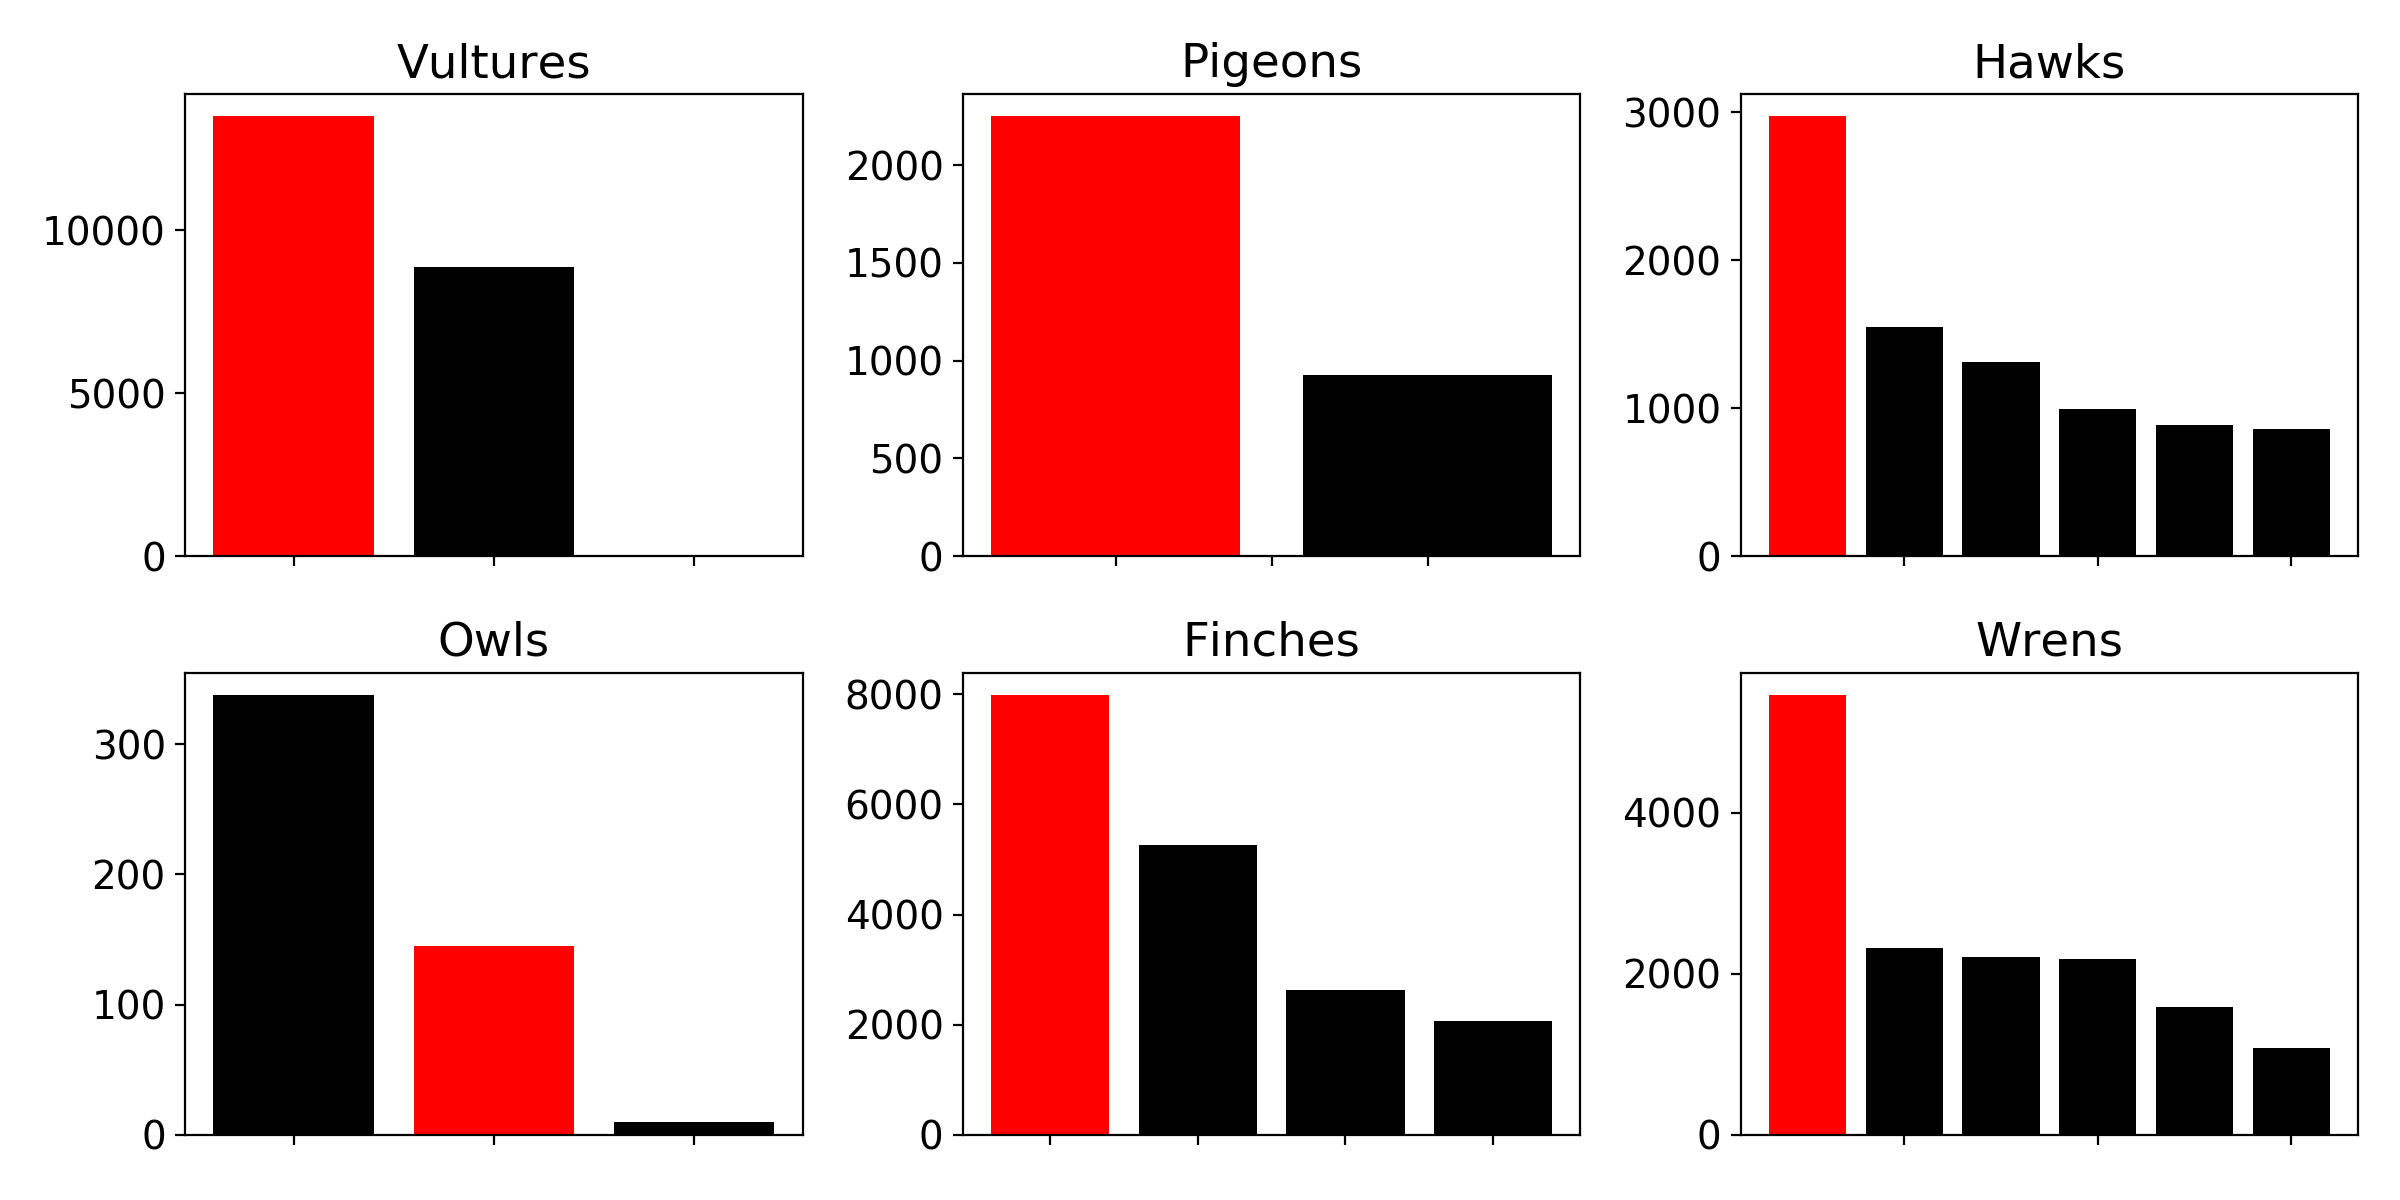
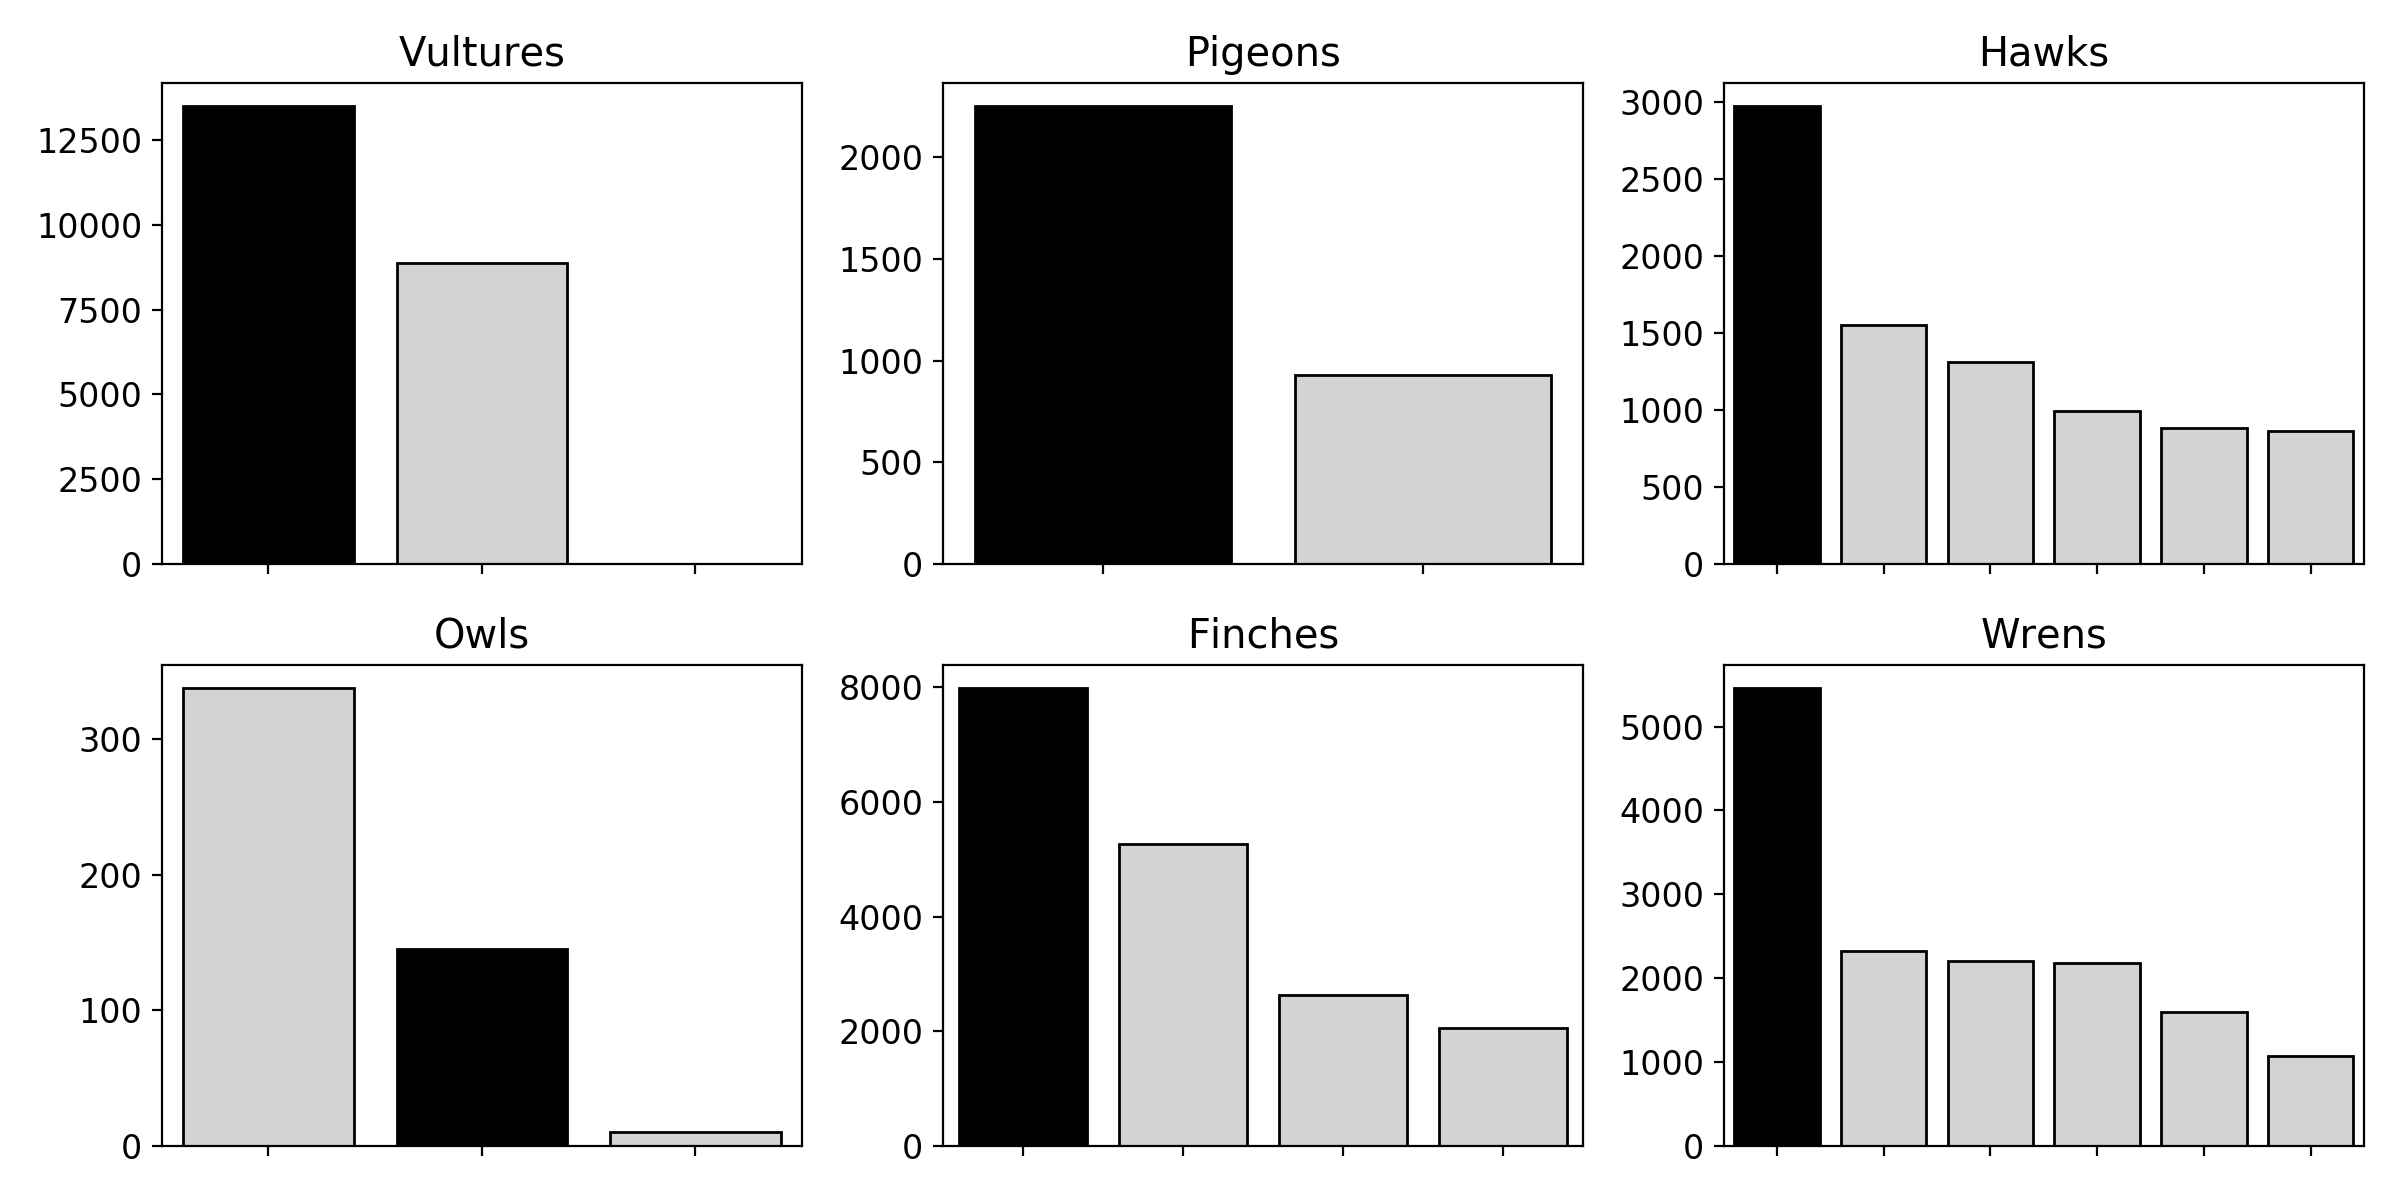
updated figures to proposed final versions

diff --git a/cogsci2020/code/cogsci_2020.py b/cogsci2020/code/cogsci_2020.py
@@ -85,25 +85,25 @@ for birdcount in bird_counts.keys():
 
 
 
-plt.figure(dpi=100, facecolor='w', edgecolor='k')
-
-# plt.subplot(1,2,1)
+plt.figure(figsize=(9, 4), dpi=100, facecolor='w', edgecolor='k')
+plt.rcParams.update({'font.size': 12})
+plt.subplot(1,2,1)
 
 pos = [1,2,3]
 plotnames = ('Zapotec','Missing','All OAX')
 # plt.figure()
-plt.violinplot([data_zapotec,missing_data,data_all],pos) 
-# plt.title('Frequency densities of OAX')
+plt.violinplot([data_zapotec,missing_data,data_all],pos,showmeans=True) 
+plt.title('Frequency densities of Zapotec')
 plt.xticks(pos,plotnames)
 plt.ylabel('Log frequency')
 
-plt.tight_layout()
-plt.show()
+# plt.tight_layout()
+# plt.show()
 
 
 
 
-plt.figure(dpi=100, facecolor='w', edgecolor='k')
+# plt.figure(dpi=100, facecolor='w', edgecolor='k')
 
 
 bigbirddata_data = pd.read_csv('./data/BirdFuncDat.txt',sep='\t',encoding = "ISO-8859-1")
@@ -134,12 +134,12 @@ for birdmass in oax_masses.keys():
 	if birdmass not in zapotec_masses.keys():
 		missing_data.append(np.log(oax_masses[birdmass]))
 
-# plt.subplot(1,2,2)
+plt.subplot(1,2,2)
 pos = [1,2,3]
 plotnames = ('Zapotec','Missing','All OAX')
 # plt.figure()
-plt.violinplot([data_zapotec,missing_data,data_all],pos) 
-# plt.title('Mass densities of Zapotec')
+plt.violinplot([data_zapotec,missing_data,data_all],pos,showmeans=True) 
+plt.title('Mass densities of Zapotec')
 plt.xticks(pos,plotnames)
 plt.ylabel('Log mass')
 
@@ -240,7 +240,7 @@ np.mean(np.log(monomials))
 
 # In[195]:
 plt.figure(figsize=(9, 4), dpi=100, facecolor='w', edgecolor='k')
-
+plt.rcParams.update({'font.size': 12})
 plt.subplot(1,2,1)
 
 # violin plot 
@@ -250,7 +250,7 @@ data_monomials = [np.log(i) for i in monomials]
 pos = [1,2]
 plotnames = ('Compounds','Monomials')
 # plt.figure()
-plt.violinplot([data_compounds,data_monomials],pos)
+plt.violinplot([data_compounds,data_monomials],pos,showmeans=True)
 plt.title('Frequency densities of name forms')
 plt.xticks(pos,plotnames)
 plt.ylabel('Log frequency')
@@ -296,7 +296,7 @@ plt.subplot(1,2,2)
 pos = [1,2]
 plotnames = ('Compounds','Monomials')
 # plt.figure()
-plt.violinplot([data_compounds,data_monomials],pos)
+plt.violinplot([data_compounds,data_monomials],pos,showmeans=True)
 plt.title('Mass densities of name forms')
 plt.xticks(pos,plotnames)
 plt.ylabel('Log Mass')
@@ -345,7 +345,9 @@ bar_labels = ('Turkey','Black','King')
 subplot_title = 'Vultures'
 heights = get_barheights_freq(bar_species,bird_list,df)
 pos = [1,2,3]
-plt.bar(pos,heights,color=['red','black','black'])
+# plt.bar(pos,heights,color=['red','black','black'])
+clrs = ['black','lightgrey','lightgrey']
+sns.barplot(pos,heights,palette=clrs,edgecolor="Black")
 plt.title(subplot_title)
 # plt.xticks(pos,bar_labels)
 plt.tick_params(labelbottom=False)
@@ -357,7 +359,9 @@ bar_labels = ('Rock','Band-tailed')
 subplot_title = 'Pigeons'
 heights = get_barheights_freq(bar_species,bird_list,df)
 pos = [1,2]
-plt.bar(pos,heights,color=['red','black'])
+# plt.bar(pos,heights,color=['red','black'])
+clrs = ['black','lightgrey']
+sns.barplot(pos,heights,palette=clrs,edgecolor="Black")
 plt.title(subplot_title)
 # plt.xticks(pos,bar_labels)
 plt.tick_params(labelbottom=False)
@@ -369,8 +373,10 @@ bar_labels = ('Red-tailed','Coopers','Short-tailed','Zone-tailed','Peregrine Fal
 subplot_title = 'Hawks'
 heights = get_barheights_freq(bar_species,bird_list,df)
 pos = [1,2,3,4,5,6]
-plt.bar(pos,heights,color=['red','black','black','black','black','black'])
+# plt.bar(pos,heights,color=['red','black','black','black','black','black'])
 plt.title(subplot_title)
+clrs = ['black','lightgrey','lightgrey','lightgrey','lightgrey','lightgrey']
+sns.barplot(pos,heights,palette=clrs,edgecolor="Black")
 # plt.xticks(pos,bar_labels)
 plt.tick_params(labelbottom=False)
 
@@ -381,7 +387,9 @@ bar_labels = ('Mottled','Great Horned','Stygian')
 subplot_title = 'Owls'
 heights = get_barheights_freq(bar_species,bird_list,df)
 pos = [1,2,3]
-plt.bar(pos,heights,color=['black','red','black'])
+# plt.bar(pos,heights,color=['black','red','black'])
+clrs = ['lightgrey','black','lightgrey']
+sns.barplot(pos,heights,palette=clrs,edgecolor="Black")
 plt.title(subplot_title)
 # plt.xticks(pos,bar_labels)
 plt.tick_params(labelbottom=False)
@@ -393,7 +401,9 @@ bar_labels = ('House','Black-vented','Black-headed','Summer Tanager')
 subplot_title = 'Finches'
 heights = get_barheights_freq(bar_species,bird_list,df)
 pos = [1,2,3,4]
-plt.bar(pos,heights,color=['red','black','black','black'])
+# plt.bar(pos,heights,color=['red','black','black','black'])
+clrs = ['black','lightgrey','lightgrey','lightgrey']
+sns.barplot(pos,heights,palette=clrs,edgecolor="Black")
 plt.title(subplot_title)
 # plt.xticks(pos,bar_labels)
 plt.tick_params(labelbottom=False)
@@ -406,7 +416,9 @@ bar_labels = ('Bewicks','Canyon','Crescent-chested','Brown-throated','Gray-breas
 subplot_title = 'Wrens'
 heights = get_barheights_freq(bar_species,bird_list,df)
 pos = [1,2,3,4,5,6]
-plt.bar(pos,heights,color=['red','black','black','black','black','black'])
+# plt.bar(pos,heights,color=['red','black','black','black','black','black'])
+clrs = ['black','lightgrey','lightgrey','lightgrey','lightgrey','lightgrey']
+sns.barplot(pos,heights,palette=clrs,edgecolor="Black")
 plt.title(subplot_title)
 # plt.xticks(pos,bar_labels)
 

diff --git a/cogsci2020/paper/cogsci2020_draft2.tex b/cogsci2020/paper/cogsci2020_draft2.tex
@@ -156,14 +156,14 @@ Figure~\ref{fig-birdfreqmassviolin} shows distributions of frequency and size fo
 
 % One relevant finding is that categories tend to be relatively broad in low-frequency regions of stimulus space, but relatively narrow in regions including frequently encountered stimuli (Parducci, 1983). We might therefore predict that bird species encountered frequently are more likely to be assigned to their own distinctive categories.
 
-Next we explore how named species are organized into categories. \citeA{hunn1999size} proposed that the size of an organism is influential in folk categorization and developed a measure which examines the degree to which the organisms are recognized taxonomically in the folk classification. 
+Next we explore how named species are organized into categories. \citeA{hunn1999size} proposed that the size of an organism is influential in folk categorization and developed a measure which examines the degree to which the organisms are recognized taxonomically in the folk system based on size. 
 
 Here we investigate a variant of Hunn's analyses, simply exploring how many folk generic category members each named species in Zapotec shares. For example, the folk-generic name for hummingbirds is \textit{dz\v{i}n\b{g}}, which covers 14 species of bird in Zapotec. We analyze this using both mass and frequency as predictors of how many species are grouped by name. Figure~\ref{fig-ssrr} presents plots for both frequency (left column) and mass (right column).
 
 \begin{figure*}[!ht]
   \begin{center}
     \includegraphics[width=0.95\textwidth]{./figures/ssrr-singlespecies.png}
-        \caption{SSRR plots of single-species for both frequency (left column) and mass (right column).}
+        \caption{Category organization plots for both frequency (left column) and mass (right column). Category organization is measured as the number of other species a bird is grouped with under the same folk-generic name. Each point represents a bird species named in Zapotec.}
         \label{fig-ssrr}
   \end{center}
 \end{figure*}
@@ -172,7 +172,7 @@ Here we find that mass rather than frequency is a better predictor of category g
 
 Overall, these findings support Hunn's conclusion that mass can predict the grouping behavior in folk categorization, while providing only weak evidence that frequency can do the same.
 
-
+% Figure~\ref{fig-birdfreqmassviolin} shows distributions of frequency and size for birds with and without Zapotec names.  As expected, on average birds that are named tend to be more frequent than birds that are not named. The mass distributions for named and unnamed birds, however, are very similar. To confirm these impressions we ran a logistic regression including log frequency and log mass as predictors of a binary variable that indicates whether a species was named. The estimated coefficients were 0.84 (log frequency) and -0.03 (log mass). Based on these coefficients, if the probability that a species would receive a name were initially 0.5, increasing the log frequency of the species by one unit would increase the naming probability to 0.65, and increasing the log mass by one unit would decrease the naming probability to 0.49. We compared the full logistic regression model to alternatives that removed either log frequency or log mass as a predictor, and found that removing log frequency produced a significant impairment ($p < 0.01$), but removing log mass did not ($p = 0.59$).  Akaike information criterion (AIC) scores supported the conclusion that the model with log frequency but without log mass is the best among the three. 
 
 
 \section{Analysis of category labels}
@@ -203,7 +203,7 @@ Here we further examine names based on whether the Zapotec label is a single wor
 \begin{figure*}
   \begin{center}
     \includegraphics[width=0.95\textwidth]{./figures/nameforms-both.png}
-        \caption{Frequency and mass densities of birds named in Zapotec as a function of name form.}
+        \caption{Frequency densities (left) and Mass densitities (right) for species named in Zapotec, as function of name form. Monomials are single word bird names and compounds are bird names formed from multiple words.}
         \label{fig-both-nameforms}
   \end{center}
 \end{figure*}
@@ -258,7 +258,7 @@ We analyzed six prototypes; instances in which it was clear there was a single b
 \begin{figure*}[ht!]
   \begin{center}
     \includegraphics[width=0.95\textwidth]{./figures/prototypes-barplots-all.png}
-        \caption{Frequency bar plots of birds named in Zapotec as unmarked prototypes and the frequencies of other birds with the same folk-generic name. The bar highlighted in red is the unmarked-prototype.}
+        \caption{Frequency bar plots of birds named in Zapotec as unmarked prototypes and the frequencies of other birds with the same folk-generic name. The bar highlighted in black is the unmarked-prototype.}
         \label{fig-freq-prototype-all}
   \end{center}
 \end{figure*}

diff --git a/cogsci2020/code/HunnSizeAnalysis-CogSci2020.py b/cogsci2020/code/HunnSizeAnalysis-CogSci2020.py
@@ -29,7 +29,7 @@ import seaborn as sns
 from scipy.stats import pearsonr
 from scipy.stats import linregress
 
-plt.rcParams.update({'font.size': 14})
+plt.rcParams.update({'font.size': 12})
 # In[57]:
 
 
@@ -446,10 +446,12 @@ plt.subplot(1,2,1)
 ssrrdf = pd.DataFrame(list(zip(np.log(zs),ys)),columns =['log freq','num species'])
 sns.regplot(x=ssrrdf["log freq"], y=ssrrdf["num species"])
 plt.xlabel('Log frequency')
-plt.ylabel('# species per taxon')
+plt.ylabel('# species per label')
 
 # plt.xlim([0.,1.])
 plt.ylim([0.,15.])
+plt.yticks((0, 2, 4,6,8,10,12,14))
+
 
 plt.subplot(1,2,2)
 ssrrdf = pd.DataFrame(list(zip(np.log(xs),ys)),columns =['log size','num species'])
@@ -458,7 +460,7 @@ plt.xlabel('Log size')
 plt.ylabel('')
 # plt.xlim([0.,1.])
 plt.ylim([0.,15.])
-
+plt.yticks((0, 2, 4,6,8,10,12,14))
 plt.tight_layout()
 plt.show()
  
